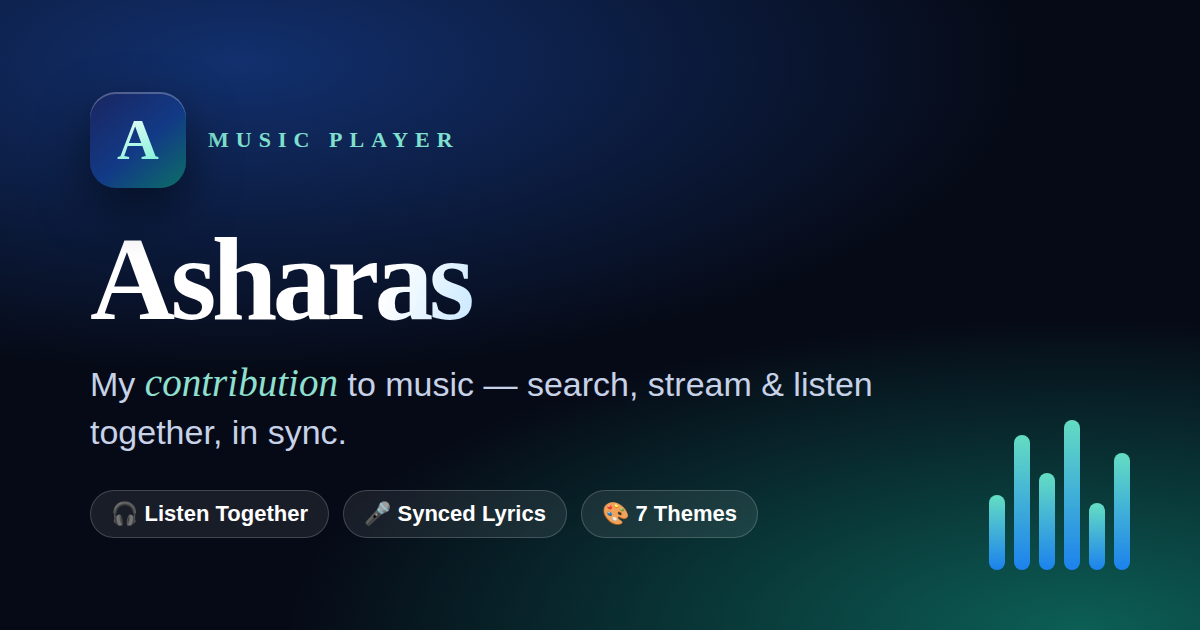
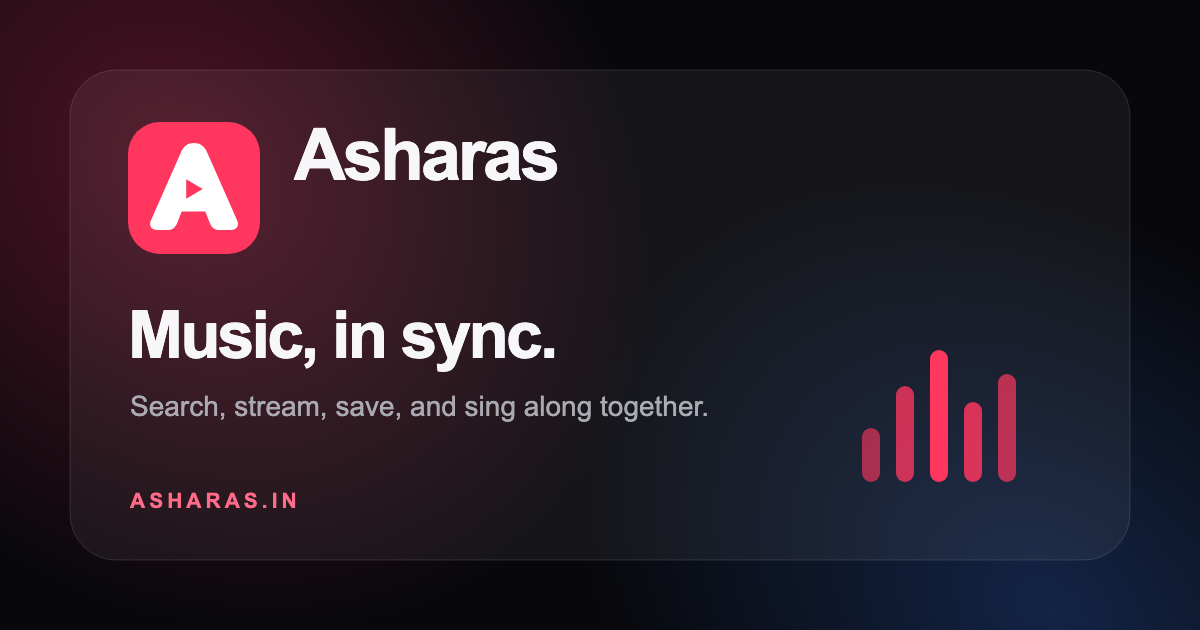
Add Asharas brand identity and SEO assets

diff --git a/index.html b/index.html
@@ -6,7 +6,7 @@
   <meta name="viewport" content="width=device-width, initial-scale=1.0" />
 
   <!-- SEO -->
-  <title>Asharas — Free Online Music Player &amp; Synced Lyrics</title>
+  <title>Asharas Music — Free Online Music Player &amp; Synced Lyrics</title>
   <meta name="description" content="Listen on Asharas, a free online music player with song search, playlists, synced lyrics, favorites, queues, and real-time Listen Together." />
   <meta name="keywords" content="Asharas, Asharas music, Asharas music player, Karthik Kotapati, Karthik Kotapati founder, founder of Asharas, online music player, free music streaming, listen together, synced lyrics, Telugu Hindi English songs" />
   <meta name="author" content="Karthik Kotapati" />
@@ -20,14 +20,17 @@
   <meta property="og:description" content="Search and stream music, synced lyrics, playlists, and real-time Listen Together. My contribution to music." />
   <meta property="og:url" content="https://www.asharas.in/" />
   <meta property="og:image" content="https://www.asharas.in/og-image.png" />
-  <meta property="og:image:alt" content="Asharas free online music player" />
+  <meta property="og:image:secure_url" content="https://www.asharas.in/og-image.png" />
+  <meta property="og:image:type" content="image/png" />
+  <meta property="og:image:alt" content="Asharas — Music, in sync. Search, stream, save, and sing along together." />
   <meta property="og:image:width" content="1200" />
   <meta property="og:image:height" content="630" />
   <meta name="twitter:card" content="summary_large_image" />
   <meta name="twitter:title" content="Asharas Music — Free Online Music Player" />
   <meta name="twitter:description" content="Search and stream music, synced lyrics, playlists, and real-time Listen Together." />
   <meta name="twitter:image" content="https://www.asharas.in/og-image.png" />
-  <meta name="twitter:image:alt" content="Asharas free online music player" />
+  <meta name="twitter:image:alt" content="Asharas — Music, in sync. Search, stream, save, and sing along together." />
+  <meta name="twitter:creator" content="@karthikeditzz" />
 
   <script type="application/ld+json">
   {
@@ -38,11 +41,15 @@
     "url": "https://www.asharas.in/",
     "description": "Free online music player — search and stream songs, playlists, synced lyrics, and real-time Listen Together.",
     "applicationCategory": "MultimediaApplication",
+    "applicationSubCategory": "MusicApplication",
     "operatingSystem": "Any",
     "browserRequirements": "Requires JavaScript",
     "image": "https://www.asharas.in/og-image.png",
+    "screenshot": "https://www.asharas.in/og-image.png",
+    "featureList": ["Music search", "Synced lyrics", "Playlists", "Favorites", "Queue", "Listen Together"],
     "offers": { "@type": "Offer", "price": "0", "priceCurrency": "USD" },
-    "author": { "@id": "https://www.asharas.in/#karthik" }
+    "author": { "@id": "https://www.asharas.in/#karthik" },
+    "publisher": { "@id": "https://www.asharas.in/#org" }
   }
   </script>
   <script type="application/ld+json">
@@ -55,7 +62,17 @@
         "name": "Asharas",
         "alternateName": ["Asharas Music", "Asharas Music Player"],
         "url": "https://www.asharas.in/",
-        "logo": "https://www.asharas.in/icons/icon-512.png",
+        "description": "Asharas is a free online music player for discovering songs, building playlists, following synced lyrics, and listening together.",
+        "slogan": "Music, in sync.",
+        "logo": {
+          "@type": "ImageObject",
+          "url": "https://www.asharas.in/icons/icon-512.png",
+          "contentUrl": "https://www.asharas.in/icons/icon-512.png",
+          "width": 512,
+          "height": 512,
+          "caption": "Asharas"
+        },
+        "image": "https://www.asharas.in/og-image.png",
         "founder": { "@id": "https://www.asharas.in/#karthik" }
       },
       {
@@ -65,11 +82,9 @@
         "givenName": "Karthik",
         "familyName": "Kotapati",
         "url": "https://www.asharas.in/",
-        "image": "https://www.asharas.in/icons/icon-512.png",
         "jobTitle": "Founder",
         "description": "Karthik Kotapati is the founder and creator of Asharas, a free online music player. A self-taught developer from a non-tech background.",
         "worksFor": { "@id": "https://www.asharas.in/#org" },
-        "founder": { "@id": "https://www.asharas.in/#org" },
         "knowsAbout": ["Web development", "API integration", "Music streaming", "UI design"],
         "sameAs": [
           "https://www.linkedin.com/in/karthik-kotapati-4883a935b/",
@@ -92,6 +107,7 @@
         "name": "Asharas",
         "alternateName": ["Asharas Music", "Asharas Music Player"],
         "url": "https://www.asharas.in/",
+        "inLanguage": "en",
         "publisher": { "@id": "https://www.asharas.in/#org" },
         "author": { "@id": "https://www.asharas.in/#karthik" },
         "potentialAction": {
@@ -104,9 +120,13 @@
   }
   </script>
   <meta name="application-name" content="Asharas" />
+  <meta name="color-scheme" content="dark" />
   <link rel="stylesheet" href="style.css" />
   <link rel="stylesheet" href="apple-player.css" />
-  <link rel="icon" type="image/png" sizes="192x192" href="https://www.asharas.in/icons/icon-192.png" />
+  <link rel="icon" type="image/svg+xml" href="/favicon.svg" />
+  <link rel="icon" type="image/png" sizes="48x48" href="/favicon-48.png" />
+  <link rel="icon" type="image/png" sizes="64x64" href="/favicon-64.png" />
+  <link rel="icon" type="image/png" sizes="32x32" href="/favicon-32.png" />
 
   <!-- PWA / installable app -->
   <link rel="manifest" href="manifest.webmanifest" />
@@ -115,14 +135,14 @@
   <meta name="apple-mobile-web-app-capable" content="yes" />
   <meta name="apple-mobile-web-app-status-bar-style" content="black-translucent" />
   <meta name="apple-mobile-web-app-title" content="Asharas" />
-  <link rel="apple-touch-icon" href="icons/apple-touch-icon.png" />
+  <link rel="apple-touch-icon" sizes="180x180" href="/icons/apple-touch-icon.png" />
 </head>
 <body>
   <!-- ======== App shell ======== -->
   <div class="shell">
     <aside class="sidebar glass">
       <div class="side-brand">
-        <span class="side-app-icon">A</span>
+        <img class="side-app-icon" src="assets/logos/asharas-mark.svg" width="32" height="32" alt="" aria-hidden="true" />
         <span class="brand-name">Asharas</span>
       </div>
       <nav class="side-nav" aria-label="Music library">
@@ -352,7 +372,7 @@
         <section class="install-section" aria-labelledby="install-title">
           <div class="install-art" aria-hidden="true">
             <div class="install-halo"></div>
-            <div class="install-icon">A</div>
+            <img class="install-icon" src="assets/logos/asharas-mark.svg" width="118" height="118" alt="" />
             <span class="install-note note-one">♪</span>
             <span class="install-note note-two">♫</span>
           </div>
@@ -503,7 +523,7 @@
 
   <dialog id="install-dialog" class="glass install-dialog" aria-labelledby="install-dialog-title">
     <button class="install-dialog-close" id="install-dialog-close" type="button" aria-label="Close install instructions">×</button>
-    <div class="install-dialog-icon" aria-hidden="true">A</div>
+    <img class="install-dialog-icon" src="assets/logos/asharas-mark.svg" width="56" height="56" alt="" aria-hidden="true" />
     <p class="install-dialog-kicker" id="install-dialog-kicker">Install Asharas</p>
     <h2 id="install-dialog-title">Add Asharas to your Home Screen</h2>
     <ol id="install-steps"></ol>

diff --git a/apple-player.css b/apple-player.css
@@ -116,15 +116,11 @@ select:focus-visible {
 .side-app-icon {
   width: 2rem;
   height: 2rem;
-  display: grid;
-  place-items: center;
+  display: block;
   flex: 0 0 auto;
   border-radius: 0.55rem;
-  color: #fff;
-  background: linear-gradient(155deg, #ff6b7f 0%, #fa2d48 64%, #d41132 100%);
-  box-shadow: 0 8px 18px rgba(250, 45, 72, 0.22), inset 0 1px rgba(255, 255, 255, 0.45);
-  font-size: 0.9rem;
-  font-weight: 750;
+  object-fit: cover;
+  box-shadow: 0 8px 18px rgba(255, 55, 95, 0.24);
 }
 
 .side-brand .brand-name {
@@ -596,7 +592,7 @@ select:focus-visible {
 .install-section::before { content: ""; position: absolute; width: 20rem; height: 20rem; left: -8rem; bottom: -11rem; border-radius: 50%; background: radial-gradient(circle,rgba(250,45,72,.2),transparent 68%); pointer-events: none; }
 .install-art { position: relative; min-height: 12rem; display: grid; place-items: center; }
 .install-halo { position: absolute; width: 11rem; height: 11rem; border: 1px solid rgba(250,45,72,.16); border-radius: 50%; box-shadow: 0 0 0 1.8rem rgba(250,45,72,.04), 0 0 0 3.6rem rgba(111,135,255,.025); animation: install-breathe 4.2s ease-in-out infinite; }
-.install-icon { position: relative; z-index: 1; width: 7.4rem; height: 7.4rem; display: grid; place-items: center; border: 1px solid rgba(255,255,255,.82); border-radius: 2rem; color: #fff; background: linear-gradient(145deg,#ff6f81,#f52c4b 55%,#c81337); box-shadow: 0 24px 42px rgba(250,45,72,.3), inset 0 1px rgba(255,255,255,.45); font-size: 3rem; font-weight: 760; }
+.install-icon { position: relative; z-index: 1; width: 7.4rem; height: 7.4rem; display: block; border: 1px solid rgba(255,255,255,.82); border-radius: 2rem; object-fit: cover; box-shadow: 0 24px 42px rgba(250,45,72,.3); }
 .install-note { position: absolute; color: rgba(250,45,72,.72); font-size: 1.2rem; animation: install-note 4s ease-in-out infinite; }
 .install-note.note-one { top: .7rem; right: 1.1rem; }
 .install-note.note-two { bottom: 1.2rem; left: .5rem; animation-delay: -2s; }
@@ -614,7 +610,7 @@ select:focus-visible {
 .install-status { margin-top: .75rem; color: #89898f !important; font-size: .7rem !important; }
 .install-dialog { width: min(28rem,calc(100vw - 2rem)); padding: 2rem; border: 1px solid rgba(255,255,255,.82); border-radius: 1.6rem; color: #1d1d1f; background: rgba(249,249,252,.88); box-shadow: 0 30px 80px rgba(24,24,28,.24), inset 0 1px rgba(255,255,255,.9); backdrop-filter: blur(34px) saturate(180%); -webkit-backdrop-filter: blur(34px) saturate(180%); }
 .install-dialog-close { position: absolute; top: .8rem; right: .8rem; width: 2.35rem; height: 2.35rem; border: 0; border-radius: 50%; color: #5f5f65; background: rgba(118,118,128,.12); font-size: 1.35rem; cursor: pointer; }
-.install-dialog-icon { width: 3.5rem; height: 3.5rem; display: grid; place-items: center; margin-bottom: 1.2rem; border-radius: 1rem; color: #fff; background: linear-gradient(145deg,#ff6f81,#e91d3f); box-shadow: 0 12px 26px rgba(250,45,72,.25); font-size: 1.45rem; font-weight: 750; }
+.install-dialog-icon { width: 3.5rem; height: 3.5rem; display: block; margin-bottom: 1.2rem; border-radius: 1rem; object-fit: cover; box-shadow: 0 12px 26px rgba(250,45,72,.25); }
 .install-dialog-kicker { margin: 0 0 .35rem; color: #f12c49; font-size: .68rem; font-weight: 680; letter-spacing: .13em; text-transform: uppercase; }
 .install-dialog h2 { margin: 0; font-size: 1.55rem; line-height: 1.08; letter-spacing: -.035em; }
 .install-dialog ol { display: grid; gap: .7rem; margin: 1.25rem 0 1.4rem; padding-left: 1.2rem; color: #5f5f65; font-size: .88rem; line-height: 1.5; }

diff --git a/sw.js b/sw.js
@@ -1,10 +1,11 @@
 /* Asharas service worker — offline app shell + safe pass-through.
    Bump CACHE to invalidate old shells on deploy. */
-const CACHE = "asharas-v11";
+const CACHE = "asharas-v12";
 const SHELL = [
   "./", "./index.html", "./style.css", "./apple-player.css", "./app.js", "./manifest.webmanifest",
   "./icons/icon-192.png", "./icons/icon-512.png", "./icons/icon-maskable-512.png",
-  "./icons/apple-touch-icon.png",
+  "./icons/apple-touch-icon.png", "./favicon.svg", "./favicon-48.png", "./favicon-64.png", "./favicon-32.png",
+  "./assets/logos/asharas-mark.svg",
 ];
 
 self.addEventListener("install", (e) => {

diff --git a/SEO.md b/SEO.md
@@ -1,41 +1,32 @@
-# Getting Asharas onto Google
+# Growing Asharas in search
 
-The site now ships everything Google needs to index and rank it:
+The site now ships the technical foundations Google needs to understand and index it:
 
 - A descriptive `<title>` and meta description targeting **"Asharas music"**
 - Open Graph + Twitter cards with a branded `og-image.png` (rich link previews)
-- `WebApplication` structured data (JSON-LD) naming the app **Asharas / Asharas Music**
+- `WebSite`, `Organization`, `WebApplication`, founder, and logo structured data
+- A consistent **Asharas** site name, **Asharas Music** alternate name, and “Music, in sync.” brand line
+- A square, crawlable 512px organization logo plus SVG/PNG favicons at stable URLs
 - `robots.txt` (allows crawling) and `sitemap.xml`
 - A canonical URL and indexable static text (brand name, tagline, sections)
 
-That's the on-page work done. **Getting actually indexed still needs two things
-only you can do**, because they require your Google account — and indexing takes
-time (usually a few days to a few weeks after you submit).
+These changes improve eligibility; they cannot guarantee a particular Google result or ranking. Google must recrawl the site before the new logo or favicon can appear, which can take days or weeks.
 
 ## Do this to get indexed (~10 minutes)
 1. Go to **Google Search Console** → <https://search.google.com/search-console>.
-2. Add a property for the URL **`https://the6amboy-tech.github.io/Claude/`**
-   (choose the "URL prefix" option) and verify it — the easiest method for
-   GitHub Pages is the **HTML tag** method: Google gives you a
-   `<meta name="google-site-verification" ...>` tag. You already have one such
-   tag in `index.html`; if Google issues a different one, send it to me and I'll
-   swap it in, then you click Verify.
-3. In Search Console → **Sitemaps**, submit: `sitemap.xml`
-4. Use **URL Inspection** → paste the site URL → **Request indexing**.
+2. Add or open the domain property for **`asharas.in`**. The homepage already contains a Google verification meta tag.
+3. In Search Console → **Sitemaps**, submit **`https://www.asharas.in/sitemap.xml`**.
+4. Use **URL Inspection** for **`https://www.asharas.in/`**, run the live test, then select **Request indexing**.
+5. Check the Page indexing and Core Web Vitals reports after Google has collected data.
 
-Then search `site:the6amboy-tech.github.io/Claude` in a few days to confirm it's
-in the index, and `asharas music` a bit later to see where it ranks.
+Then search `site:asharas.in` in a few days to confirm indexing, and track queries such as `asharas` and `asharas music` in Search Console’s Performance report.
 
 ## Honest expectations about ranking
 - **Indexing ≠ ranking.** Being in Google is quick; ranking #1 for "asharas
   music" depends on competition and how strong the site's signals are.
-- **The URL matters a lot.** A project sub-path
-  (`the6amboy-tech.github.io/Claude/`) ranks weaker and looks less official than
-  a real domain. For "Asharas" to own the search result, a **custom domain**
-  like `asharas.app` or `asharasmusic.com` (~₹800–1500/yr) pointed at this site
-  is by far the biggest lever. I can wire up the custom-domain config
-  (`CNAME` + updated URLs) whenever you have one.
-- **Backlinks & time** help: link the site from your GitHub profile, socials,
-  and any bios. Fresh sites climb over weeks, not hours.
+- **Earn relevant mentions.** Use the new `og-image.png` when sharing Asharas from your GitHub profile, LinkedIn, Instagram, X, music communities, and product directories. Keep the name and URL identical everywhere.
+- **Publish useful pages.** Search engines have little text to rank in a single-page player. Original public pages about supported languages, synced lyrics, Listen Together, playlists, and product updates can earn long-tail traffic.
+- **Measure, then iterate.** Review Search Console queries and pages monthly. Improve pages that already receive impressions instead of stuffing unrelated keywords.
+- **Performance and trust matter.** Keep the app fast, mobile-friendly, HTTPS-only, and clear about data use and music sources.
 
-Tell me if you register a domain and I'll switch everything over to it.
+Avoid paid backlink schemes, copied lyrics pages, mass automated posts, and keyword stuffing; they can damage search visibility and user trust.

diff --git a/README.md b/README.md
@@ -1,6 +1,10 @@
-# Asharas 🎧
+<p align="center">
+  <img src="assets/logos/asharas-mark.svg" width="96" height="96" alt="Asharas logo" />
+</p>
 
-A responsive, Apple Music-inspired web player with a light adaptive-material
+# Asharas
+
+A responsive, Apple Music-inspired web player with a midnight glass
 interface, immersive lyrics, and touch-first motion, powered by a custom
 [JioSaavn API](https://jiosaavn-api-one-rho.vercel.app). No ads, no logins.
 
@@ -31,7 +35,7 @@ interface, immersive lyrics, and touch-first motion, powered by a custom
 - **Real Listen Together** — the host generates a 4-digit code, friends
   join by code or invite link (`?session=CODE`), and playback stays synced
   across devices over MQTT; the host can transfer the crown to any listener
-- **Apple Music-inspired UI** — a light desktop library sidebar, restrained
+- **Apple Music-inspired UI** — a dark desktop library sidebar, restrained
   translucent navigation materials, precise system typography, and an
   artwork-driven immersive player with large synced lyrics
 - **iPhone-style mobile layout** — five-tab navigation, a compact mini-player,
@@ -52,6 +56,6 @@ python3 -m http.server 8000
 |------|---------|
 | `index.html` | App shell, library views, player, lyrics, and dialogs |
 | `style.css` | Base components and motion primitives |
-| `apple-player.css` | Adaptive light desktop/mobile presentation layer |
+| `apple-player.css` | Adaptive midnight-glass desktop/mobile presentation layer |
 | `app.js` | API calls, views, queue/shuffle/repeat, favorites, playlists |
 | `.github/workflows/deploy-pages.yml` | Auto-deploy to GitHub Pages on push |

diff --git a/docs/brand-guidelines.md b/docs/brand-guidelines.md
@@ -1,0 +1,30 @@
+# Asharas brand essentials
+
+## Brand idea
+
+Asharas makes music discovery feel personal, immediate, and shared. The identity combines a clear “A” with a play-shaped counter: the brand name and the act of listening in one compact mark.
+
+## Logo system
+
+- Primary mark: `assets/logos/asharas-mark.svg`
+- Horizontal wordmark: `assets/logos/asharas-wordmark.svg`
+- Maskable app source: `assets/logos/asharas-maskable.svg`
+- Social preview source: `assets/social/asharas-social-card.svg`
+- Search/browser favicons: `favicon.svg`, `favicon-48.png`, `favicon-64.png`, and `favicon-32.png`
+- Minimum digital size: 24px for the mark and 120px for the wordmark.
+- Clear space: keep at least one quarter of the mark width around the logo.
+- Do not stretch, rotate, recolor, outline, or add effects to the logo artwork.
+
+## Palette
+
+| Token | Value | Use |
+| --- | --- | --- |
+| Asharas Red | `#FF375F` | Logo, primary actions, active states |
+| Midnight | `#08080B` | Primary dark background |
+| Frost | `#F5F5F7` | Primary text and reversed mark |
+| Mist | `#AAAAB3` | Secondary text |
+| Graphite Glass | `rgba(31,31,36,.64)` | Translucent surfaces |
+
+## Typography and voice
+
+Use the system San Francisco stack already present in the product. Headlines are direct and warm; interface copy is calm, concise, and human. The preferred public line is “Music, in sync.”
